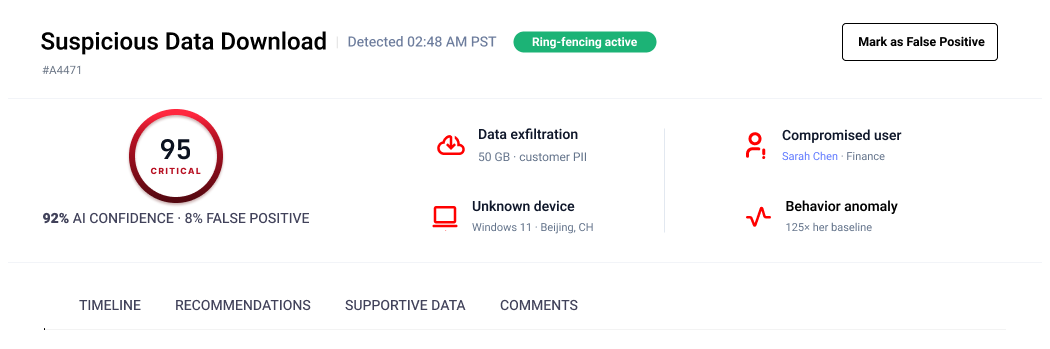
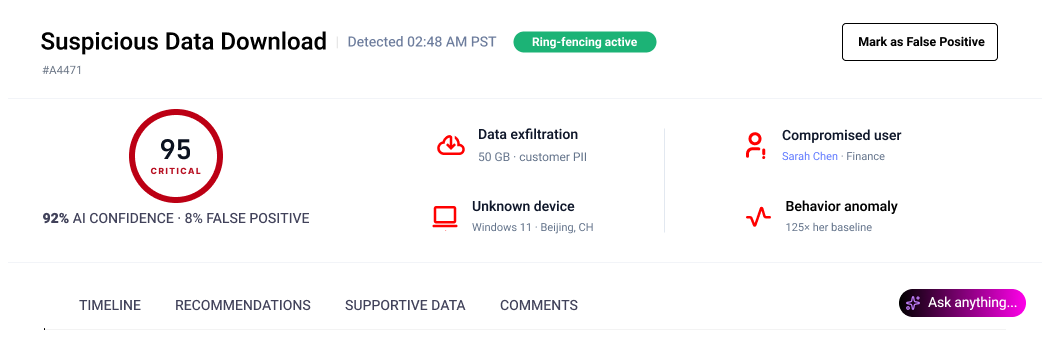
misc. fixes

Changed region(s): [[0.8533, 0.8309, 0.9752, 0.9169], [0.1219, 0.4298, 0.2133, 0.6017], [0.1219, 0.3152, 0.2133, 0.3725]]

diff --git a/akamai/src/app/App.tsx b/akamai/src/app/App.tsx
@@ -2003,6 +2003,30 @@ function CaseStudyPresentation({ onViewDemo }: { onViewDemo: () => void }) {
           </div>
         </div>
 
+        <CaseH3>Integrating the “Ask Anything” AI assistant (floating component)</CaseH3>
+        <CaseP>
+          When a user clicks an “Ask anything” button, a floating chat component appears. The chat automatically
+          carries the context in which the button was clicked, so users never have to describe or re-type that
+          context themselves — they only need to ask the question they actually want answered.
+        </CaseP>
+        <CaseP>I chose a floating component for two reasons:</CaseP>
+        <CaseList
+          items={[
+            { lead: "Consistency", rest: "the AI chat experience is identical everywhere, no matter where the user opened it from." },
+            { lead: "Navigation", rest: "the assistant's replies can take the user directly to the part of the system that holds the information they asked about." },
+          ]}
+        />
+        <CaseP>
+          I placed this trigger only in a few strategic locations within the side panel — for example, where users
+          are most likely to want more detail about a user, an endpoint, or a recommended action. This keeps the
+          experience focused: it avoids overwhelming users with AI everywhere and prevents them from getting stuck
+          in long chats, while still surfacing the assistant exactly where it's genuinely useful.
+        </CaseP>
+        <CaseP>
+          I did not design the chat component itself, as that falls slightly outside the scope of this task.
+          Defining how and where the component is used, however, sits well within it.
+        </CaseP>
+
         <CaseH3>The user shouldn't have to think about the next action</CaseH3>
         <CaseP>This section also went through many iterations.</CaseP>
         <CaseList

diff --git a/akamai/src/imports/Frame427320261-1/index.tsx b/akamai/src/imports/Frame427320261-1/index.tsx
@@ -554,7 +554,7 @@ function Tabs1() {
 function AskAnythingButton() {
   return (
     <div
-      className="h-[34px] relative rounded-[999px] shrink-0"
+      className="h-[34px] relative rounded-[999px] shrink-0 translate-y-[-6px] z-[2]"
       style={{ backgroundImage: "linear-gradient(90deg, #0b0b12 0%, #7c3aed 62%, #ec4899 100%)" }}
       data-name="Ask AI Button"
     >
@@ -2629,7 +2629,7 @@ function Icon13() {
 
 function Text50() {
   return (
-    <div className="h-[22px] relative rounded-[19px] shrink-0 w-[136px]" style={{ backgroundImage: "linear-gradient(96.4235deg, rgb(0, 0, 0) 41.563%, rgb(238, 0, 251) 110.43%)" }} data-name="Text">
+    <div className="h-[22px] relative rounded-[19px] shrink-0 w-[136px]" style={{ backgroundImage: "linear-gradient(90deg, #0b0b12 0%, #7c3aed 62%, #ec4899 100%)" }} data-name="Text">
       <Icon13 />
       <p className="[word-break:break-word] absolute font-['Heebo:ExtraBold',sans-serif] font-extrabold leading-[normal] left-[31px] text-[9px] text-white top-[5px] tracking-[0.6px] uppercase whitespace-nowrap">AI Recommended</p>
     </div>
@@ -4475,7 +4475,7 @@ function Icon24() {
 
 function Text66() {
   return (
-    <div className="absolute bg-gradient-to-r from-black h-[28px] left-[871px] rounded-[18px] to-[#ff00e9] top-[291px] w-[127px]" data-name="Text">
+    <div className="absolute h-[28px] left-[871px] rounded-[18px] top-[291px] w-[127px]" style={{ backgroundImage: "linear-gradient(90deg, #0b0b12 0%, #7c3aed 62%, #ec4899 100%)" }} data-name="Text">
       <Icon24 />
       <p className="[word-break:break-word] absolute font-['Heebo:Medium',sans-serif] font-medium leading-[normal] left-[29px] text-[14px] text-white top-[3px] tracking-[-0.2px] whitespace-nowrap">Ask anything...</p>
     </div>

diff --git a/akamai/src/imports/DetailesPaneMitigationStepsTab1/index.tsx b/akamai/src/imports/DetailesPaneMitigationStepsTab1/index.tsx
@@ -62,7 +62,7 @@ function Icon() {
 
 function Text() {
   return (
-    <div className="h-[22px] relative rounded-[19px] shrink-0 w-[136px]" style={{ backgroundImage: "linear-gradient(96.4235deg, rgb(0, 0, 0) 41.563%, rgb(238, 0, 251) 110.43%)" }} data-name="Text">
+    <div className="h-[22px] relative rounded-[19px] shrink-0 w-[136px]" style={{ backgroundImage: "linear-gradient(90deg, #0b0b12 0%, #7c3aed 62%, #ec4899 100%)" }} data-name="Text">
       <Icon />
       <p className="[word-break:break-word] absolute font-['Heebo:ExtraBold',sans-serif] font-extrabold leading-[normal] left-[31px] text-[9px] text-white top-[5px] tracking-[0.6px] uppercase whitespace-nowrap">AI Recommended</p>
     </div>
